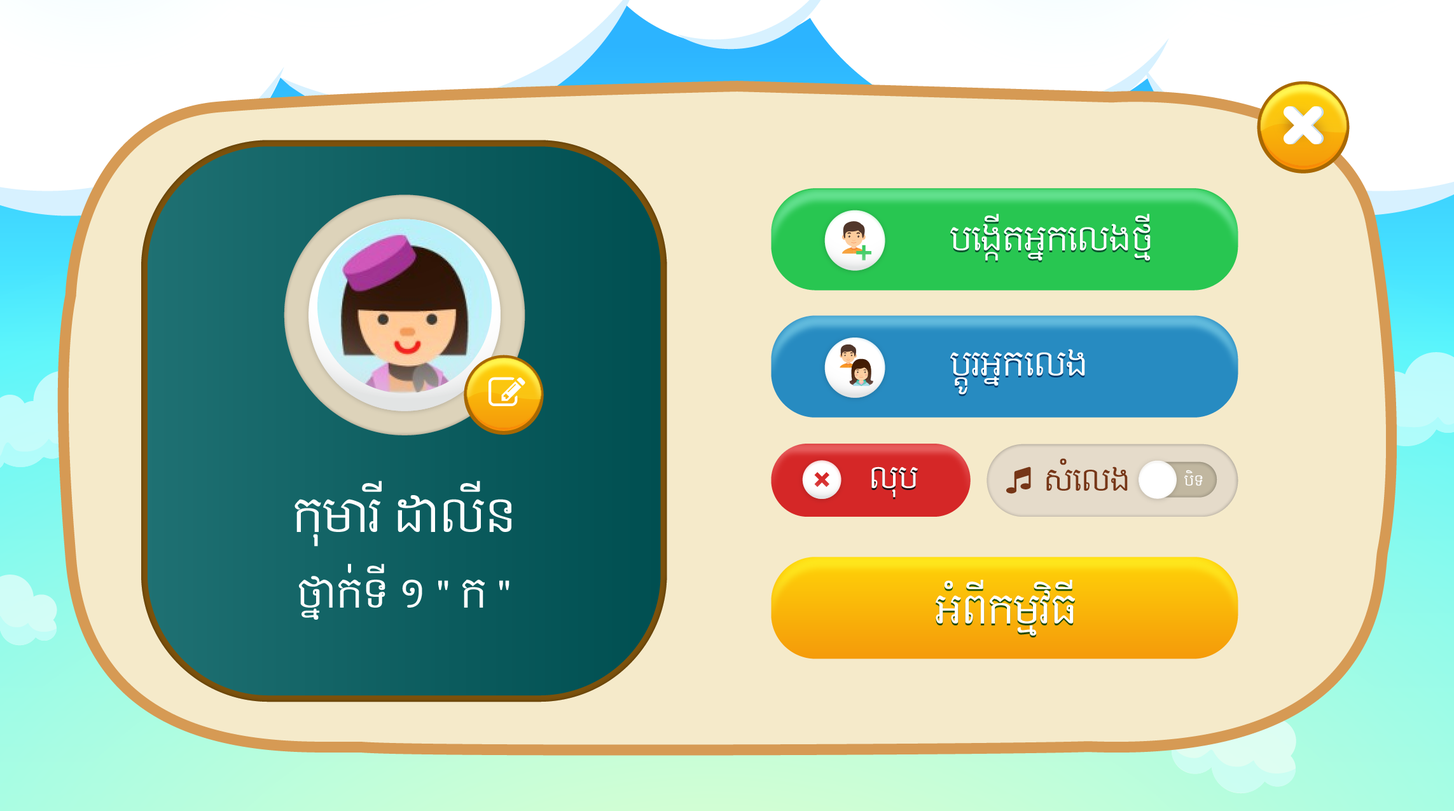
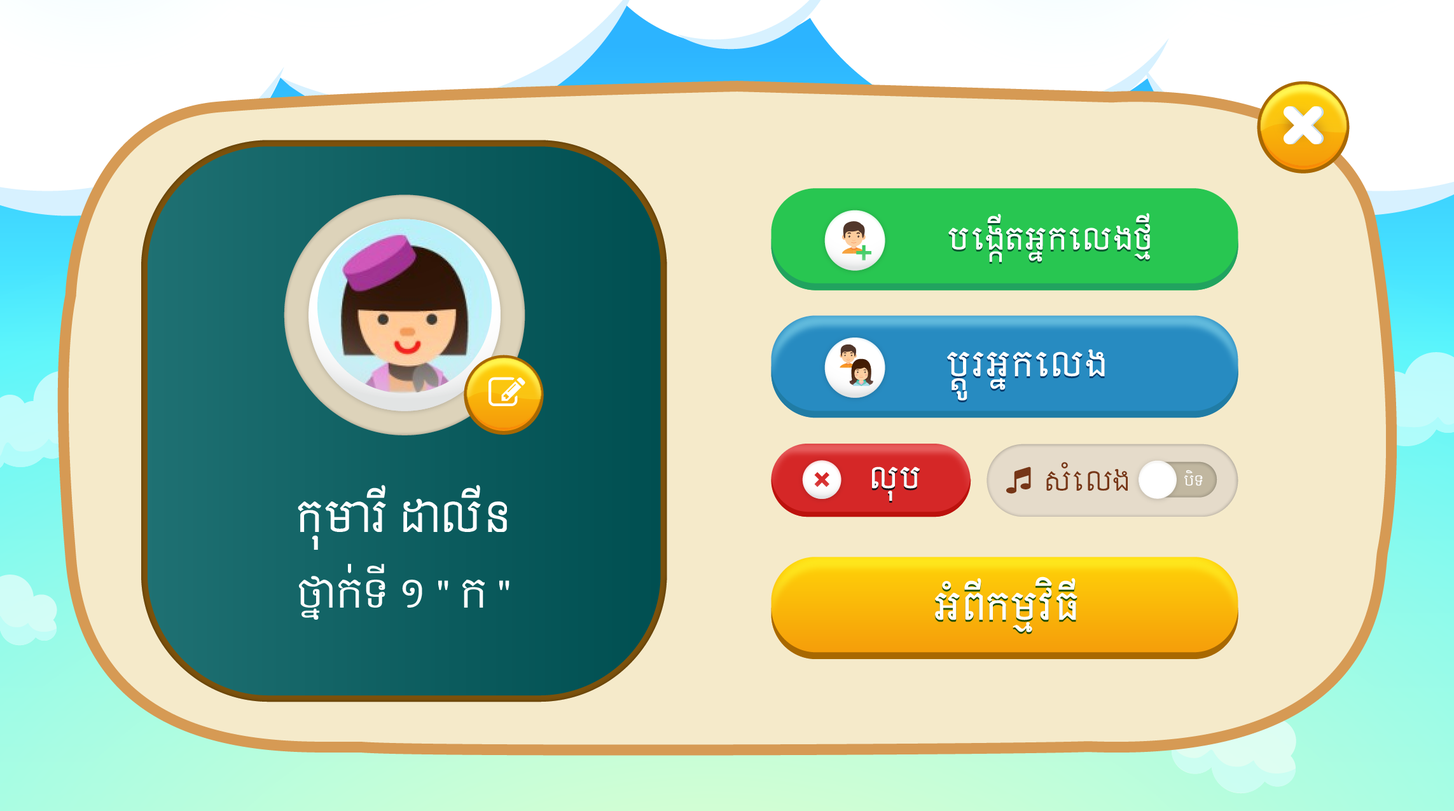
change style button

diff --git a/www/css/account.min.css b/www/css/account.min.css
@@ -1,1 +1,1 @@
-@font-face{font-family:'Daun Teav';src:url(../fonts/DaunTeav.ttf);src:url(../fonts/DaunTeav.ttf) format("truetype"),url(../fonts/DaunTeav.woff) format("woff"),url(../fonts/DaunTeav.woff2) format("woff2"),url(../fonts/DaunTeav.eot?#iefix) format("embedded-opentype"),url(../fonts/DaunTeav.svg#AngDaunTeav) format("svg");font-weight:400;font-style:normal}ion-view{font-family:"Daun Teav"!important}.app-background{background:url(../img/global-background.png) center center no-repeat fixed;background-size:cover}.activated{opacity:.3}.account-panel{display:block;background:url(../img/account/account.png) center center no-repeat;background-size:92% 92%;height:90%;margin-top:3.5%;width:100%}.split-left{display:inline-block;position:relative;float:left;width:40%;height:100%}.split-right{display:inline-block;position:relative;width:50%;height:60%}.account-previous{display:inline-block;float:left;background:url(../img/account/previous.png) 44.6% 48% no-repeat fixed;background-size:2.4%;width:13%;height:100%}.avatar-selection{display:inline-block;width:37%;height:59%;position:fixed;margin-top:3%}.avatar-selection div:last-child{position:relative;background:url(../img/account/save.png) center center no-repeat;background-size:contain;width:67%;height:16%;margin-left:17%;margin-top:1%}.avatar-item{display:inline-block;position:relative;background:url(../img/avatar/avatar.png) center center no-repeat;width:29%;height:35%;background-size:contain;margin-right:2%;margin-left:1.5%;cursor:pointer}.avatar-item:visited{opacity:.3}.account-next{display:inline-block;background:url(../img/account/next.png) 86% 48% no-repeat fixed;background-size:2.4%;width:13%;height:100%}.account-name{background:url(../img/account/name.png) center center no-repeat;background-size:cover;width:75.5%;margin-left:21.3%!important;margin-top:8%!important;height:9%}input[type=text]#name::-webkit-input-placeholder{color:#763617;font-size:22px}.select-grade{background:url(../img/account/grade.png) center center no-repeat;background-size:contain;margin-top:4%;margin-left:22%;width:43.5%;float:left}.select-grade .input-label{font-size:22px;color:#763617;margin-left:25%}.select-type{background:url(../img/account/grade-type.png) center center no-repeat;background-size:contain;margin-top:4%;margin-left:24%;width:34%;height:10%}
+@font-face{font-family:'Daun Teav';src:url(../fonts/DaunTeav.ttf);src:url(../fonts/DaunTeav.ttf) format("truetype"),url(../fonts/DaunTeav.woff) format("woff"),url(../fonts/DaunTeav.woff2) format("woff2"),url(../fonts/DaunTeav.eot?#iefix) format("embedded-opentype"),url(../fonts/DaunTeav.svg#AngDaunTeav) format("svg");font-weight:400;font-style:normal}ion-view{font-family:"Daun Teav"!important}.app-background{background:url(../img/app-background.png) center center no-repeat fixed;background-size:cover}.activated{opacity:.3}.account-panel{display:block;background:url(../img/account/account.png) center center no-repeat;background-size:92% 92%;height:90%;margin-top:3.5%;width:100%}.split-left{display:inline-block;position:relative;float:left;width:40%;height:100%}.split-right{display:inline-block;position:relative;width:50%;height:60%}.account-previous{display:inline-block;float:left;background:url(../img/account/previous.png) 44.6% 48% no-repeat fixed;background-size:2.4%;width:13%;height:100%}.avatar-selection{display:inline-block;width:37%;height:59%;position:fixed;margin-top:3%}.avatar-selection div:last-child{position:relative;background:url(../img/account/save.png) center center no-repeat;background-size:contain;width:67%;height:16%;margin-left:17%;margin-top:1%}.avatar-item{display:inline-block;position:relative;background:url(../img/avatar/avatar.png) center center no-repeat;width:29%;height:35%;background-size:contain;margin-right:2%;margin-left:1.5%;cursor:pointer}.avatar-item:visited{opacity:.3}.account-next{display:inline-block;background:url(../img/account/next.png) 86% 48% no-repeat fixed;background-size:2.4%;width:13%;height:100%}.account-name{background:url(../img/account/name.png) center center no-repeat;background-size:cover;width:75.5%;margin-left:21.3%!important;margin-top:8%!important;height:9%}input[type=text]#name::-webkit-input-placeholder{color:#763617;font-size:22px}.select-grade{background:url(../img/account/grade.png) center center no-repeat;background-size:contain;margin-top:4%;margin-left:22%;width:43.5%;float:left}.select-grade .input-label{font-size:22px;color:#763617;margin-left:25%}.select-type{background:url(../img/account/grade-type.png) center center no-repeat;background-size:contain;margin-top:4%;margin-left:24%;width:34%;height:10%}

diff --git a/www/css/setting.min.css b/www/css/setting.min.css
@@ -1,1 +1,1 @@
-@font-face{font-family:'Daun Teav';src:url(../fonts/DaunTeav.ttf);src:url(../fonts/DaunTeav.ttf) format("truetype"),url(../fonts/DaunTeav.woff) format("woff"),url(../fonts/DaunTeav.woff2) format("woff2"),url(../fonts/DaunTeav.eot?#iefix) format("embedded-opentype"),url(../fonts/DaunTeav.svg#AngDaunTeav) format("svg");font-weight:400;font-style:normal}ion-view{font-family:"Daun Teav"!important}.app-background{background:url(../img/global-background.png) center center no-repeat fixed;background-size:cover}.activated{opacity:.3}.setting-panel{display:block;background:url(../img/setting/setting-panel.png) center center no-repeat;background-size:93% 91%;height:90%;width:100%;margin-top:3.5%}.user-panel{display:inline-block;position:relative;float:left;text-align:center;width:50%;height:100%}.editing-panel{display:inline-block;position:relative;height:75%;width:50%}.new-user{background:url(../img/setting/new.png) center center no-repeat;background-size:contain;margin-left:6%;width:65%;height:21%}.change-user{background:url(../img/setting/change.png) center center no-repeat;background-size:contain;margin-left:6%;width:65%;height:21%;margin-top:2%}.delete-user{background:url(../img/setting/delete.png) center center no-repeat;background-size:contain;margin-left:6%;width:28%;height:21%;float:left}.sound{background:url(../img/setting/sound-close.png) center center no-repeat;background-size:contain;margin-left:36%;width:35%;height:21%}.aboutus{background:url(../img/setting/aboutus.png) center center no-repeat;background-size:contain;margin-left:6%;width:65%;height:20%;margin-top:2%}.avatar{background:url(../img/setting/avatar-box.png) center center no-repeat;background-size:contain;margin-top:20%;margin-left:36.5%;width:37%;height:33%}.name{color:#FFF;margin-top:6%;font-size:33px;margin-left:9%}.grade{color:#FFF;margin-top:7%;font-size:28px;margin-left:8%}
+@font-face{font-family:'Daun Teav';src:url(../fonts/DaunTeav.ttf);src:url(../fonts/DaunTeav.ttf) format("truetype"),url(../fonts/DaunTeav.woff) format("woff"),url(../fonts/DaunTeav.woff2) format("woff2"),url(../fonts/DaunTeav.eot?#iefix) format("embedded-opentype"),url(../fonts/DaunTeav.svg#AngDaunTeav) format("svg");font-weight:400;font-style:normal}ion-view{font-family:"Daun Teav"!important}.app-background{background:url(../img/app-background.png) center center no-repeat fixed;background-size:cover}.activated{opacity:.3}.setting-panel{display:block;height:90%;width:100%;margin-top:3.5%}.user-panel{display:inline-block;position:relative;float:left;text-align:center;width:50%;height:100%}.editing-panel{display:inline-block;position:relative;height:75%;width:50%}.editing-panel div{background-size:contain;margin-left:6%;width:65%;height:21%}.new-user{background:url(../img/setting/new.png) center center no-repeat}.change-user{background:url(../img/setting/change.png) center center no-repeat;margin-top:2%}.delete-user{background:url(../img/setting/delete.png) center center no-repeat;width:28%!important;float:left}.sound{background:url(../img/setting/sound-close.png) center center no-repeat;margin-left:36%!important;width:35%!important}.aboutus{background:url(../img/setting/aboutus.png) center center no-repeat;margin-top:2%}.avatar{background:url(../img/setting/avatar-box.png) center center no-repeat;background-size:contain;margin-top:20%;margin-left:36.5%;width:37%;height:33%}.name{color:#FFF;margin-top:6%;font-size:33px;margin-left:10%}.grade{color:#FFF;margin-top:7%;font-size:28px;margin-left:8%}

diff --git a/www/css/lesson.min.css b/www/css/lesson.min.css
@@ -1,1 +1,1 @@
-@font-face{font-family:'Daun Teav';src:url(../fonts/DaunTeav.ttf);src:url(../fonts/DaunTeav.ttf) format("truetype"),url(../fonts/DaunTeav.woff) format("woff"),url(../fonts/DaunTeav.woff2) format("woff2"),url(../fonts/DaunTeav.eot?#iefix) format("embedded-opentype"),url(../fonts/DaunTeav.svg#AngDaunTeav) format("svg");font-weight:400;font-style:normal}ion-view{font-family:"Daun Teav"!important}.app-background{background:url(../img/global-background.png) center center no-repeat fixed;background-size:cover}.activated{opacity:.3}.lesson-background{background:url(../img/lesson/lesson-background.png) center center no-repeat fixed;background-size:cover}.lesson-contain{display:block;float:right;margin-top:10%;width:54%;height:65%}.lesson-item{display:inline-block;position:relative;background:url(../img/lesson/lesson-book.png) center center no-repeat;width:25%;height:37%;margin-bottom:13%;margin-left:4%;background-size:contain;text-align:center}.grade-text{display:block;float:left;margin-top:24%;margin-left:11%;width:20%;text-align:center;color:#26bcf7;font-size:61px}.lesson-text{display:block;position:relative;color:#EFCA2B;font-size:20px;margin-top:18%}.lesson-numeric-text{display:block;position:relative;color:#EFCA2B;font-size:63px;text-align:center;margin-top:25%}.lesson-next-previous{display:block;position:relative;width:60%;height:15%;margin-bottom:0;float:right}.lesson-next{display:inline-block;position:relative;background:url(../img/lesson/next.png) center center no-repeat;margin-left:3%;width:10%;height:100%;background-size:contain}.lesson-previous{display:inline-block;position:relative;background:url(../img/lesson/previous.png) center center no-repeat;width:10%;height:100%;margin-left:41%;background-size:contain}
+@font-face{font-family:'Daun Teav';src:url(../fonts/DaunTeav.ttf);src:url(../fonts/DaunTeav.ttf) format("truetype"),url(../fonts/DaunTeav.woff) format("woff"),url(../fonts/DaunTeav.woff2) format("woff2"),url(../fonts/DaunTeav.eot?#iefix) format("embedded-opentype"),url(../fonts/DaunTeav.svg#AngDaunTeav) format("svg");font-weight:400;font-style:normal}ion-view{font-family:"Daun Teav"!important}.app-background{background:url(../img/app-background.png) center center no-repeat fixed;background-size:cover}.activated{opacity:.3}.lesson-background{background:url(../img/lesson/lesson-background.png) center center no-repeat fixed;background-size:cover}.lesson-contain{display:block;float:right;margin-top:10%;width:54%;height:65%}.lesson-item{display:inline-block;position:relative;background:url(../img/lesson/lesson-book.png) center center no-repeat;width:25%;height:37%;margin-bottom:13%;margin-left:4%;background-size:contain;text-align:center}.grade-text{display:block;float:left;margin-top:24%;margin-left:11%;width:20%;text-align:center;color:#26bcf7;font-size:61px}.lesson-text{display:block;position:relative;color:#EFCA2B;font-size:20px;margin-top:18%}.lesson-numeric-text{display:block;position:relative;color:#EFCA2B;font-size:63px;text-align:center;margin-top:25%}.lesson-next-previous{display:block;position:relative;width:60%;height:15%;margin-bottom:0;float:right}.lesson-next{display:inline-block;position:relative;background:url(../img/lesson/next.png) center center no-repeat;margin-left:3%;width:10%;height:100%;background-size:contain}.lesson-previous{display:inline-block;position:relative;background:url(../img/lesson/previous.png) center center no-repeat;width:10%;height:100%;margin-left:41%;background-size:contain}

diff --git a/www/css/content.min.css b/www/css/content.min.css
@@ -1,1 +1,1 @@
-@font-face{font-family:'Daun Teav';src:url(../fonts/DaunTeav.ttf);src:url(../fonts/DaunTeav.ttf) format("truetype"),url(../fonts/DaunTeav.woff) format("woff"),url(../fonts/DaunTeav.woff2) format("woff2"),url(../fonts/DaunTeav.eot?#iefix) format("embedded-opentype"),url(../fonts/DaunTeav.svg#AngDaunTeav) format("svg");font-weight:400;font-style:normal}ion-view{font-family:"Daun Teav"!important}.app-background{background:url(../img/global-background.png) center center no-repeat fixed;background-size:cover}.activated{opacity:.3}.writing-background{background:url(../img/content/writing-background.png) center center no-repeat fixed;background-size:cover}.writing-contain{display:block;height:85%;margin-top:8%}.content-panel{float:left;text-align:center;font-weight:700;width:34%;height:85%;display:inline-block;position:relative;margin-left:5%}.content-title-numeric{display:block;position:relative;color:#000;font-size:16px;margin-top:6.5%;margin-left:0}.content-title{display:block;position:relative;color:#442C0C;font-size:22px;margin-top:2%}.content-panel img{max-width:90%;min-width:30%;max-height:72%;margin-top:8%}.writing-panel{height:78%;width:48%;display:inline-block;position:relative;background-color:#fff;margin-top:3%;margin-left:7%;border-radius:8%}.writing-footer{display:inline-block;position:relative;margin-left:8%;height:13%;width:85%}.writing-footer div{display:inline-block;background-size:contain;width:18%;height:100%}.previous{background:url(../img/content/previous.png) center center no-repeat}.delete{background:url(../img/content/delete.png) center center no-repeat;margin-left:49%;width:13%!important}.next{background:url(../img/content/next.png) center center no-repeat}
+@font-face{font-family:'Daun Teav';src:url(../fonts/DaunTeav.ttf);src:url(../fonts/DaunTeav.ttf) format("truetype"),url(../fonts/DaunTeav.woff) format("woff"),url(../fonts/DaunTeav.woff2) format("woff2"),url(../fonts/DaunTeav.eot?#iefix) format("embedded-opentype"),url(../fonts/DaunTeav.svg#AngDaunTeav) format("svg");font-weight:400;font-style:normal}ion-view{font-family:"Daun Teav"!important}.app-background{background:url(../img/app-background.png) center center no-repeat fixed;background-size:cover}.activated{opacity:.3}.writing-background{background:url(../img/content/writing-background.png) center center no-repeat fixed;background-size:cover}.writing-contain{display:block;height:85%;margin-top:8%}.content-panel{float:left;text-align:center;font-weight:700;width:34%;height:85%;display:inline-block;position:relative;margin-left:5%}.content-title-numeric{display:block;position:relative;color:#000;font-size:16px;margin-top:6.5%;margin-left:0}.content-title{display:block;position:relative;color:#442C0C;font-size:22px;margin-top:2%}.content-panel img{max-width:90%;min-width:30%;max-height:72%;margin-top:8%}.writing-panel{height:78%;width:48%;display:inline-block;position:relative;background-color:#fff;margin-top:3%;margin-left:7%;border-radius:8%}.writing-footer{display:inline-block;position:relative;margin-left:8%;height:13%;width:85%}.writing-footer div{display:inline-block;background-size:contain;width:18%;height:100%}.previous{background:url(../img/content/previous.png) center center no-repeat}.delete{background:url(../img/content/delete.png) center center no-repeat;margin-left:49%;width:13%!important}.next{background:url(../img/content/next.png) center center no-repeat}

diff --git a/www/css/user.min.css b/www/css/user.min.css
@@ -1,1 +1,1 @@
-@font-face{font-family:'Daun Teav';src:url(../fonts/DaunTeav.ttf);src:url(../fonts/DaunTeav.ttf) format("truetype"),url(../fonts/DaunTeav.woff) format("woff"),url(../fonts/DaunTeav.woff2) format("woff2"),url(../fonts/DaunTeav.eot?#iefix) format("embedded-opentype"),url(../fonts/DaunTeav.svg#AngDaunTeav) format("svg");font-weight:400;font-style:normal}ion-view{font-family:"Daun Teav"!important}.app-background{background:url(../img/global-background.png) center center no-repeat fixed;background-size:cover}.activated{opacity:.3}.user-background{background:url(../img/user/users-screen.png) center center no-repeat fixed;background-size:cover}.contain-panel{display:block;background:url(../img/user/user-panel.png) center center no-repeat;background-size:93% 91%;height:90%;width:100%;margin-top:3.5%}.user-previous{display:inline-block;position:relative;background:url(../img/user/previous.png) center center no-repeat;background-size:contain;float:left;width:2.8%;height:100%;margin-left:7.2%;margin-right:1%}.user-item{display:inline-block;position:fixed;width:37%;height:90%;margin-left:1.3%;color:#763617;text-align:center}.user-item p{margin-top:6%;font-size:29px}.user-item p+p{font-size:24px}.user-item div{background:url(../img/user/save.png) center center no-repeat;background-size:contain;width:66%;height:11%;margin-left:18%;margin-top:3%}.user-next{display:inline-block;position:relative;background:url(../img/user/next.png) center center no-repeat;background-size:contain;width:2.8%;height:100%;margin-left:79%}
+@font-face{font-family:'Daun Teav';src:url(../fonts/DaunTeav.ttf);src:url(../fonts/DaunTeav.ttf) format("truetype"),url(../fonts/DaunTeav.woff) format("woff"),url(../fonts/DaunTeav.woff2) format("woff2"),url(../fonts/DaunTeav.eot?#iefix) format("embedded-opentype"),url(../fonts/DaunTeav.svg#AngDaunTeav) format("svg");font-weight:400;font-style:normal}ion-view{font-family:"Daun Teav"!important}.app-background{background:url(../img/app-background.png) center center no-repeat fixed;background-size:cover}.activated{opacity:.3}.contain-panel{display:block;background:url(../img/user/user-panel.png) center center no-repeat;background-size:93% 91%;height:90%;width:100%;margin-top:3.5%}.user-previous{display:inline-block;position:relative;background:url(../img/user/previous.png) center center no-repeat;background-size:contain;float:left;width:2.8%;height:100%;margin-left:6.2%;margin-right:2%}.user-item{display:inline-block;position:fixed;width:37%;height:90%;margin-left:1.3%;color:#763617;text-align:center}.user-item p{margin-top:6%;font-size:29px}.user-item p+p{font-size:24px}.user-item div{background:url(../img/user/save.png) center center no-repeat;background-size:contain;width:66%;height:13%;margin-left:18%}.user-next{display:inline-block;position:relative;background:url(../img/user/next.png) center center no-repeat;background-size:contain;width:2.8%;height:100%;margin-left:79%}

diff --git a/www/css/method.min.css b/www/css/method.min.css
@@ -1,1 +1,1 @@
-@font-face{font-family:'Daun Teav';src:url(../fonts/DaunTeav.ttf);src:url(../fonts/DaunTeav.ttf) format("truetype"),url(../fonts/DaunTeav.woff) format("woff"),url(../fonts/DaunTeav.woff2) format("woff2"),url(../fonts/DaunTeav.eot?#iefix) format("embedded-opentype"),url(../fonts/DaunTeav.svg#AngDaunTeav) format("svg");font-weight:400;font-style:normal}ion-view{font-family:"Daun Teav"!important}.app-background{background:url(../img/global-background.png) center center no-repeat fixed;background-size:cover}.activated{opacity:.3}.method-background{background:url(../img/method/method-background.png) center center no-repeat fixed;background-size:cover}.lesson-title-contain{background:url(../img/method/lesson-title-bar.png) center center no-repeat;background-size:contain;text-align:center;line-height:1.5;margin-top:6%;padding:1.5%}.method-lesson-text{color:#f8f8f8;font-size:120%}.lesson-title{color:#FCDE00;font-size:200%}.method-contain{display:block;width:80%;height:50%;margin-left:15%;margin-top:3%}.method-item{display:inline-block;margin-left:3%;width:40%;margin-bottom:6%}.method-item img{width:95%}
+@font-face{font-family:'Daun Teav';src:url(../fonts/DaunTeav.ttf);src:url(../fonts/DaunTeav.ttf) format("truetype"),url(../fonts/DaunTeav.woff) format("woff"),url(../fonts/DaunTeav.woff2) format("woff2"),url(../fonts/DaunTeav.eot?#iefix) format("embedded-opentype"),url(../fonts/DaunTeav.svg#AngDaunTeav) format("svg");font-weight:400;font-style:normal}ion-view{font-family:"Daun Teav"!important}.app-background{background:url(../img/app-background.png) center center no-repeat fixed;background-size:cover}.activated{opacity:.3}.method-background{background:url(../img/method/method-background.png) center center no-repeat fixed;background-size:cover}.lesson-title-contain{background:url(../img/method/lesson-title-bar.png) center center no-repeat;background-size:contain;text-align:center;line-height:1.5;margin-top:6%;padding:1.5%}.method-lesson-text{color:#f8f8f8;font-size:120%}.lesson-title{color:#FCDE00;font-size:200%}.method-contain{display:block;width:80%;height:50%;margin-left:15%;margin-top:3%}.method-item{display:inline-block;margin-left:3%;width:40%;margin-bottom:6%}.method-item img{width:95%}

diff --git a/www/css/setting.css b/www/css/setting.css
@@ -9,7 +9,7 @@ ion-view {
   font-family: "Daun Teav" !important; }
 
 .app-background {
-  background: url("../img/global-background.png") center center no-repeat fixed;
+  background: url("../img/app-background.png") center center no-repeat fixed;
   background-size: cover; }
 
 .activated {
@@ -17,8 +17,6 @@ ion-view {
 
 .setting-panel {
   display: block;
-  background: url("../img/setting/setting-panel.png") center center no-repeat;
-  background-size: 93% 91%;
   height: 90%;
   width: 100%;
   margin-top: 3.5%; }
@@ -37,42 +35,31 @@ ion-view {
   height: 75%;
   width: 50%; }
 
-.new-user {
-  background: url(../img/setting/new.png) center center no-repeat;
+.editing-panel div {
   background-size: contain;
   margin-left: 6%;
   width: 65%;
   height: 21%; }
 
+.new-user {
+  background: url(../img/setting/new.png) center center no-repeat; }
+
 .change-user {
   background: url(../img/setting/change.png) center center no-repeat;
-  background-size: contain;
-  margin-left: 6%;
-  width: 65%;
-  height: 21%;
   margin-top: 2%; }
 
 .delete-user {
   background: url(../img/setting/delete.png) center center no-repeat;
-  background-size: contain;
-  margin-left: 6%;
-  width: 28%;
-  height: 21%;
+  width: 28% !important;
   float: left; }
 
 .sound {
   background: url(../img/setting/sound-close.png) center center no-repeat;
-  background-size: contain;
-  margin-left: 36%;
-  width: 35%;
-  height: 21%; }
+  margin-left: 36% !important;
+  width: 35% !important; }
 
 .aboutus {
   background: url(../img/setting/aboutus.png) center center no-repeat;
-  background-size: contain;
-  margin-left: 6%;
-  width: 65%;
-  height: 20%;
   margin-top: 2%; }
 
 .avatar {
@@ -87,7 +74,7 @@ ion-view {
   color: #FFF;
   margin-top: 6%;
   font-size: 33px;
-  margin-left: 9%; }
+  margin-left: 10%; }
 
 .grade {
   color: #FFF;

diff --git a/www/css/grade.min.css b/www/css/grade.min.css
@@ -1,1 +1,1 @@
-@font-face{font-family:'Daun Teav';src:url(../fonts/DaunTeav.ttf);src:url(../fonts/DaunTeav.ttf) format("truetype"),url(../fonts/DaunTeav.woff) format("woff"),url(../fonts/DaunTeav.woff2) format("woff2"),url(../fonts/DaunTeav.eot?#iefix) format("embedded-opentype"),url(../fonts/DaunTeav.svg#AngDaunTeav) format("svg");font-weight:400;font-style:normal}ion-view{font-family:"Daun Teav"!important}.app-background{background:url(../img/global-background.png) center center no-repeat fixed;background-size:cover}.activated{opacity:.3}.grade-background{background:url(../img/grade/grade-background.png) center center no-repeat fixed;background-size:cover}.grade-contain{display:block;float:right;margin-right:20%;margin-top:14%;width:45%;height:70%}.grade-item{width:80%;height:28%;margin-left:14%}.grade-item img{width:95%}
+@font-face{font-family:'Daun Teav';src:url(../fonts/DaunTeav.ttf);src:url(../fonts/DaunTeav.ttf) format("truetype"),url(../fonts/DaunTeav.woff) format("woff"),url(../fonts/DaunTeav.woff2) format("woff2"),url(../fonts/DaunTeav.eot?#iefix) format("embedded-opentype"),url(../fonts/DaunTeav.svg#AngDaunTeav) format("svg");font-weight:400;font-style:normal}ion-view{font-family:"Daun Teav"!important}.app-background{background:url(../img/app-background.png) center center no-repeat fixed;background-size:cover}.activated{opacity:.3}.grade-background{background:url(../img/grade/grade-background.png) center center no-repeat fixed;background-size:cover}.grade-contain{display:block;float:right;margin-right:20%;margin-top:14%;width:45%;height:70%}.grade-item{width:80%;height:28%;margin-left:14%}.grade-item img{width:95%}

diff --git a/scss/setting.scss b/scss/setting.scss
@@ -2,8 +2,8 @@
 
 .setting-panel {
   display: block;
-  background: url("../img/setting/setting-panel.png") $background;
-  background-size: 93% 91%;
+  // background: url("../img/setting/setting-panel.png") $background;
+  // background-size: 93% 91%;
   height: 90%;
   width: 100%;
   margin-top: 3.5%;
@@ -25,46 +25,36 @@
   width: 50%;
 }
 
-.new-user{
-  background: url(../img/setting/new.png) center center no-repeat;
+.editing-panel div{
   background-size: contain;
   margin-left: 6%;
   width: 65%;
   height: 21%;
 }
 
+.new-user{
+  background: url(../img/setting/new.png) center center no-repeat;
+}
+
 .change-user{
   background: url(../img/setting/change.png) $background;
-  background-size: contain;
-  margin-left: 6%;
-  width: 65%;
-  height: 21%;
   margin-top: 2%;
 }
 
 .delete-user{
   background: url(../img/setting/delete.png) $background;
-  background-size: contain;
-  margin-left: 6%;
-  width: 28%;
-  height: 21%;
+  width: 28% !important;
   float: left;
 }
 
 .sound{
   background: url(../img/setting/sound-close.png) $background;
-  background-size: contain;
-  margin-left: 36%;
-  width: 35%;
-  height: 21%;
+  margin-left: 36% !important;
+  width: 35% !important;
 }
 
 .aboutus{
   background: url(../img/setting/aboutus.png) $background;
-  background-size: contain;
-  margin-left: 6%;
-  width: 65%;
-  height: 20%;
   margin-top: 2%;
 }
 
@@ -81,7 +71,7 @@
   color: #FFF;
   margin-top: 6%;
   font-size: 33px;
-  margin-left: 9%;
+  margin-left: 10%;
 }
 
 .grade{

diff --git a/www/css/custom-icon.min.css b/www/css/custom-icon.min.css
@@ -1,1 +1,1 @@
-.icon.ion-hearing{content:url(../img/icon/hearing.png)}.icon.ion-play{content:url(../img/icon/play.png)!important}.icon.ion-not-hearing{content:url(../img/icon/not-hearing.png)}.icon.ion-expand{content:url(../img/icon/expand-48.png)}.icon.ion-collapse{content:url(../img/icon/collapse-48.png)}.icon.ion-back{width:8%;float:left;margin-top:.5%;margin-left:.6%;content:url(../img/icon/back.png)!important}.icon.ion-setting{width:8%;float:right;margin-top:.6%;margin-right:.5%;content:url(../img/icon/setting.png)!important}.icon.ion-close{width:8%;float:right;margin-top:1.9%;margin-right:6.2%;content:url(../img/icon/close.png)!important}.icon.ion-edit{width:14.5%;margin-top:-11.5%;margin-left:38%;content:url(../img/icon/edit.png)!important}
+.icon.ion-hearing{content:url(../img/icon/hearing.png)}.icon.ion-play{content:url(../img/icon/play.png)!important}.icon.ion-not-hearing{content:url(../img/icon/not-hearing.png)}.icon.ion-expand{content:url(../img/icon/expand-48.png)}.icon.ion-collapse{content:url(../img/icon/collapse-48.png)}.icon.ion-back{width:8%;float:left;margin-top:.5%;margin-left:.6%;content:url(../img/icon/back.png)!important}.icon.ion-setting{width:8%;float:right;margin-top:.6%;margin-right:.5%;content:url(../img/icon/setting.png)!important}.icon.ion-close{width:8%;float:right;margin-top:5.5%;margin-right:6.2%;content:url(../img/icon/close.png)!important}.icon.ion-edit{width:14.5%;margin-top:-11.5%;margin-left:38%;content:url(../img/icon/edit.png)!important}

diff --git a/www/css/application.min.css b/www/css/application.min.css
@@ -1,1 +1,1 @@
-@font-face{font-family:'Daun Teav';src:url(../fonts/DaunTeav.ttf);src:url(../fonts/DaunTeav.ttf) format("truetype"),url(../fonts/DaunTeav.woff) format("woff"),url(../fonts/DaunTeav.woff2) format("woff2"),url(../fonts/DaunTeav.eot?#iefix) format("embedded-opentype"),url(../fonts/DaunTeav.svg#AngDaunTeav) format("svg");font-weight:400;font-style:normal}ion-view{font-family:"Daun Teav"!important}.app-background{background:url(../img/global-background.png) center center no-repeat fixed;background-size:cover}.activated{opacity:.3}
+@font-face{font-family:'Daun Teav';src:url(../fonts/DaunTeav.ttf);src:url(../fonts/DaunTeav.ttf) format("truetype"),url(../fonts/DaunTeav.woff) format("woff"),url(../fonts/DaunTeav.woff2) format("woff2"),url(../fonts/DaunTeav.eot?#iefix) format("embedded-opentype"),url(../fonts/DaunTeav.svg#AngDaunTeav) format("svg");font-weight:400;font-style:normal}ion-view{font-family:"Daun Teav"!important}.app-background{background:url(../img/app-background.png) center center no-repeat fixed;background-size:cover}.activated{opacity:.3}

diff --git a/www/css/user.css b/www/css/user.css
@@ -9,15 +9,11 @@ ion-view {
   font-family: "Daun Teav" !important; }
 
 .app-background {
-  background: url("../img/global-background.png") center center no-repeat fixed;
+  background: url("../img/app-background.png") center center no-repeat fixed;
   background-size: cover; }
 
 .activated {
   opacity: .3; }
-
-.user-background {
-  background: url("../img/user/users-screen.png") center center no-repeat fixed;
-  background-size: cover; }
 
 .contain-panel {
   display: block;
@@ -35,8 +31,8 @@ ion-view {
   float: left;
   width: 2.8%;
   height: 100%;
-  margin-left: 7.2%;
-  margin-right: 1%; }
+  margin-left: 6.2%;
+  margin-right: 2%; }
 
 .user-item {
   display: inline-block;
@@ -58,9 +54,8 @@ ion-view {
   background: url(../img/user/save.png) center center no-repeat;
   background-size: contain;
   width: 66%;
-  height: 11%;
-  margin-left: 18%;
-  margin-top: 3%; }
+  height: 13%;
+  margin-left: 18%; }
 
 .user-next {
   display: inline-block;
